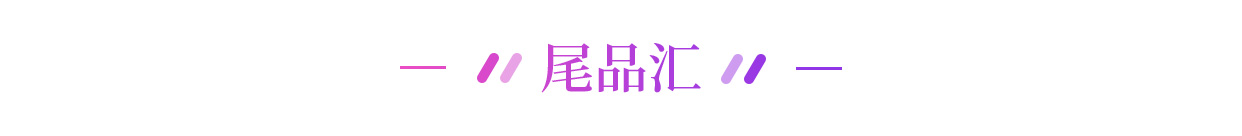
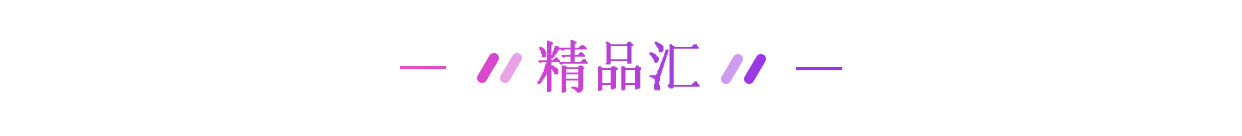
finish the first version home page

Changed region(s): [[0.4283, 0.2941, 0.5813, 0.6765]]

diff --git a/src/pages/home/home.html b/src/pages/home/home.html
@@ -109,18 +109,117 @@
       </span>
       秒
     </div>
-    <ion-scroll scrollX="true" style="height:135px;" >
+    <ion-scroll scrollX="true" style="height:135px;">
       <ul [style.width]="100*promoList.length + 'px'" class="promo-list clear">
-          <li *ngFor="let promo of promoList">
-              <img src="assets/imgs/test.jpg" alt="">
-              <p>啊啊啊啊啊啊啊</p>
-              <div>¥ 5.00</div>
-            </li>
-           
+        <li *ngFor="let promo of promoList">
+          <img src="assets/imgs/test.jpg" alt="">
+          <p>啊啊啊啊啊啊啊</p>
+          <div>¥ 5.00</div>
+        </li>
       </ul>
     </ion-scroll>
-    <section class="interval"></section>
+    
 
   </div>
-  <div class="content"></div>
+  <section class="interval"></section>
+  <!-- 精品汇 -->
+  <div class="special">
+    <img src="assets/imgs/weipinhui.jpg" alt="">
+    <img src="assets/imgs/ad4.png" alt="">
+    <div class="special-box">
+      <ion-grid>
+        <ion-row>
+          <ion-col col-6 class="br">
+            <p class="title"></p>
+            <p class="price"></p>
+            <img src="assets/imgs/book.jpg" alt="">
+          </ion-col>
+          <ion-col col-6 class="pd0">
+            <ion-grid>
+              <ion-row class="bb">
+                <ion-col col-6>
+                  <img src="assets/imgs/book.jpg" alt="">
+                  
+                </ion-col>
+                <ion-col col-6>
+                  <p>xxx sss  ss s s s s s s s s s</p>
+                </ion-col>
+              </ion-row>
+              <ion-row>
+                <ion-col col-6 >
+                  <img src="assets/imgs/book.jpg" alt="">
+                  
+                </ion-col>
+                <ion-col col-6>
+                  <p>xxx</p>
+                </ion-col>
+              </ion-row>
+            </ion-grid>
+          </ion-col>
+        </ion-row>
+      
+      </ion-grid>
+    </div>
+  </div>
+  <section class="interval"></section>
+  <!-- 热门汇 -->
+  <div class="hot">
+    <img src="assets/imgs/remenhui.jpg" alt="">
+    <img src="assets/imgs/ad1.png" alt="">
+    <ion-grid>
+      <ion-row>
+        <ion-col col-4>
+          <img src="assets/imgs/book.jpg" alt="">
+          <p>xxx xxx sss  ss s s s s s s s s s</p>
+          <p>¥ 0.000</p>
+        </ion-col>
+        <ion-col col-4>
+          <img src="assets/imgs/book.jpg" alt="">
+          <p>xxx</p>
+          <p>¥ 0.000</p>
+        </ion-col>
+        <ion-col col-4>
+          <img src="assets/imgs/book.jpg" alt="">
+          <p>xxx</p>
+          <p>¥ 0.000</p>
+        </ion-col>
+      </ion-row>
+      <ion-row>
+        <ion-col col-4>
+          <img src="assets/imgs/book.jpg" alt="">
+          <p>xxx</p>
+          <p>¥ 0.000</p>
+        </ion-col>
+        <ion-col col-4>
+          <img src="assets/imgs/book.jpg" alt="">
+          <p>xxx</p>
+          <p>¥ 0.000</p>
+        </ion-col>
+        <ion-col col-4>
+          <img src="assets/imgs/book.jpg" alt="">
+          <p>xxx</p>
+          <p>¥ 0.000</p>
+        </ion-col>
+      </ion-row>
+      <ion-row>
+        <ion-col col-4>
+          <img src="assets/imgs/book.jpg" alt="">
+          <p>xxx</p>
+          <p>¥ 0.000</p>
+        </ion-col>
+        <ion-col col-4>
+          <img src="assets/imgs/book.jpg" alt="">
+          <p>xxx</p>
+          <p>¥ 0.000</p>
+        </ion-col>
+        <ion-col col-4>
+          <img src="assets/imgs/book.jpg" alt="">
+          <p>xxx</p>
+          <p>¥ 0.000</p>
+        </ion-col>
+      </ion-row>
+      
+    </ion-grid>
+  </div>
+  
 </ion-content>

diff --git a/src/pages/classify/classify.scss b/src/pages/classify/classify.scss
@@ -1,3 +1,39 @@
 page-classify {
-
+    ion-header{
+        &:after{
+            display: none;
+        }
+        .search-bar{
+            top:0;
+            width:100%;
+            height: 45px;
+            padding:5px 10px;
+            background: linear-gradient(to right, #347eff, #af45ff);
+          
+        }
+        .input-bar{
+            position: absolute;
+            top:5px;
+            height:35px;
+            width:90%;
+            margin-left: 50%;
+            transform: translateX(-50%);
+            background: #ffffff;
+            border-radius:35px;
+            padding:5px;
+            padding-left:10px;
+            line-height: 35px;
+            ion-icon{
+                font-size: 20px;
+                color:#333;
+               
+            }
+            span{
+                position: relative;
+                top:-3px;
+                left:5px;
+                color:#aaa;
+            }
+        }
+    }
 }

diff --git a/src/pages/home/home.scss b/src/pages/home/home.scss
@@ -63,9 +63,7 @@ page-home {
             margin:0;
         }
     }
-    .content{
-        height: 1000px;
-    }
+    
     .index-trumpet{
        // border-bottom: 1px solid #eeeeee;
         height: 50px;
@@ -188,4 +186,31 @@ page-home {
             }
         }
     }
+    .special{
+        img{
+            width:100%;
+            display: block;
+        }
+        ion-grid{
+            padding:0;
+        }
+    }
+    .hot{
+        img{
+            width:100%;
+            display: block;
+        }
+        ion-grid{
+            padding:0;
+        }
+        ion-col:not(:last-child){
+            border-right:1px solid #eee;
+        }
+        ion-row:not(:last-child){
+            ion-col{
+                border-bottom:1px solid #eee;
+            }
+        }
+    }
+    
 }

diff --git a/src/pages/classify/classify.html b/src/pages/classify/classify.html
@@ -6,13 +6,15 @@
 -->
 <ion-header>
 
-  <ion-navbar>
-    <ion-title>classify</ion-title>
-  </ion-navbar>
+  <div class="search-bar"></div>
+  <div class="input-bar">
+    <ion-icon name="search"></ion-icon>
+    <span>请输入你想搜索的 商品 / 品牌</span>
+  </div>
 
 </ion-header>
 
 
-<ion-content padding>
+<ion-content>
 
 </ion-content>

diff --git a/src/style/common.scss b/src/style/common.scss
@@ -86,3 +86,19 @@ div{
     height:5px;
     background: #EFF4FA;
 }
+
+.bb{
+    border-bottom: 1px solid #eee;
+}
+.br{
+    border-right: 1px solid #eee;
+}
+.bt{
+    border-top: 1px solid #eee;
+}
+.bl{
+    border-left: 1px solid #eee;
+}
+.pd0{
+    padding:0;
+}

diff --git a/resources/README.md b/resources/README.md
@@ -1,0 +1,8 @@
+These are Cordova resources. You can replace icon.png and splash.png and run
+`ionic cordova resources` to generate custom icons and splash screens for your
+app. See `ionic cordova resources --help` for details.
+
+Cordova reference documentation:
+
+- Icons: https://cordova.apache.org/docs/en/latest/config_ref/images.html
+- Splash Screens: https://cordova.apache.org/docs/en/latest/reference/cordova-plugin-splashscreen/
